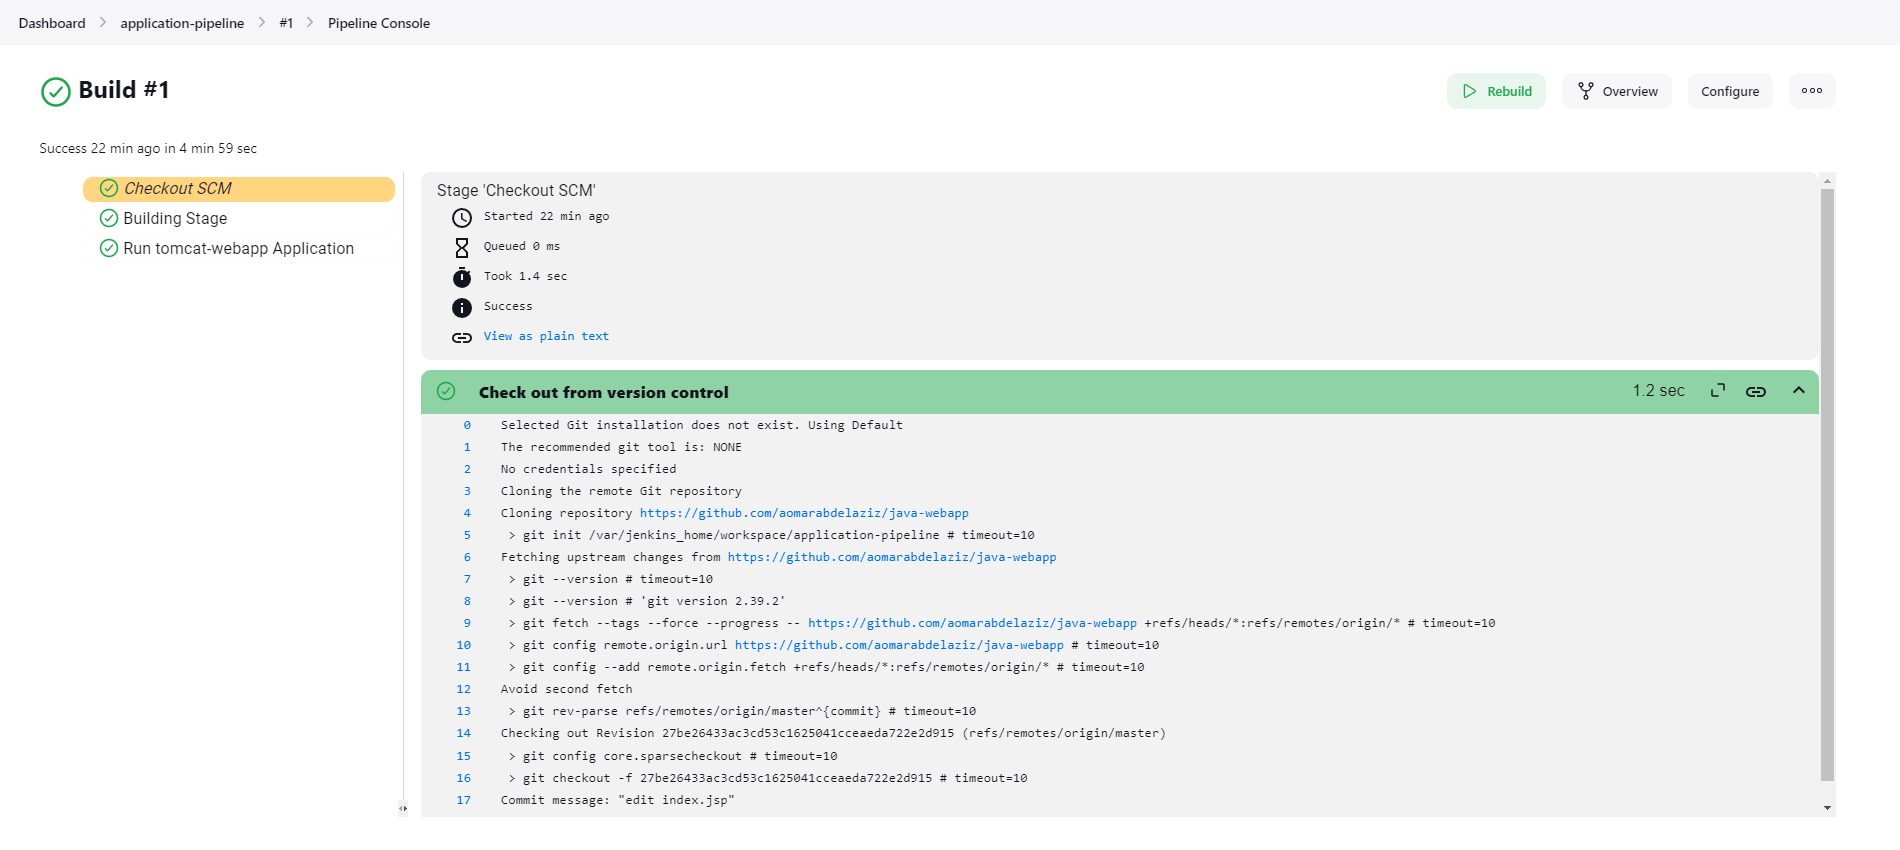
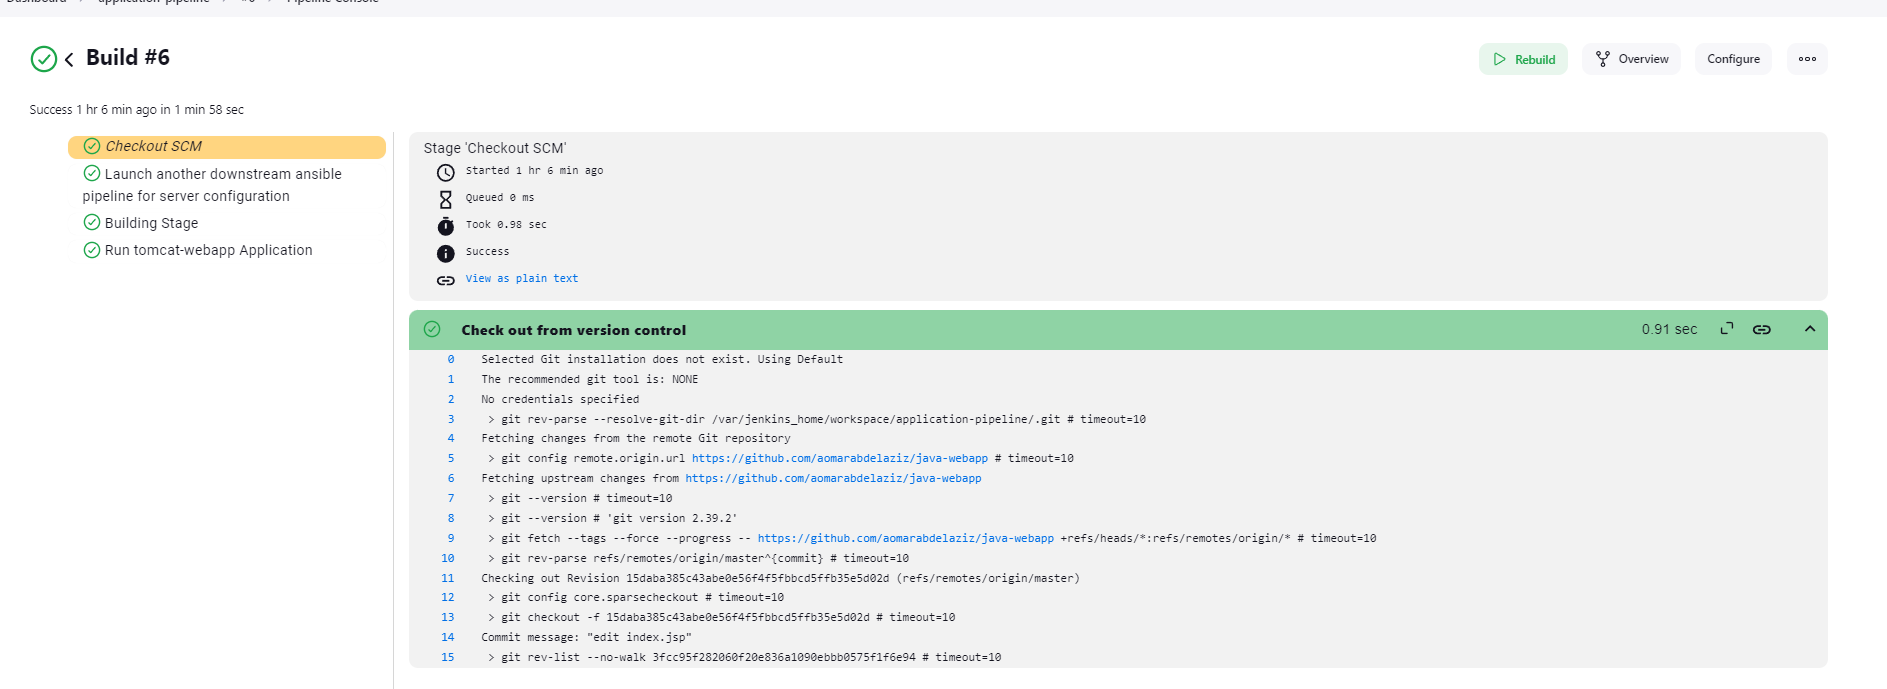
Edit README.md

diff --git a/README.md b/README.md
@@ -1173,13 +1173,35 @@ The --network=host option is used to enable network access between the container
 <details>
 <summary><b>Images</b></summary>
 
-### 1. Ansible pipeline Execution
+
+![Alternative Image](./images/jenkins/9.png)
+
+### 1. Launch another downstream ansible pipeline for server configuration using Ansible
+
+![Alternative Image](./images/jenkins/10.png)
+
+### 1. Pipeline started b github webhook while push to master branch, starting with the ansible pipeline
+
+![Alternative Image](./images/jenkins/12.png)
+
+### 1. Ansible pipeline execution
 
 ![Alternative Image](./images/jenkins/13.png)
 ![Alternative Image](./images/jenkins/14.png)
 ![Alternative Image](./images/jenkins/16.png)
 ![Alternative Image](./images/jenkins/19.png)
 ![Alternative Image](./images/jenkins/20.png)
+
+### 1. Continue execution of the application pipeline
+
+![Alternative Image](./images/jenkins/11.png)
+![Alternative Image](./images/jenkins/11-1.png)
+
+### 1. Our application is running on our tomcat server container
+
+![Alternative Image](./images/jenkins/22.png)
+
+
 
 </details>
 
